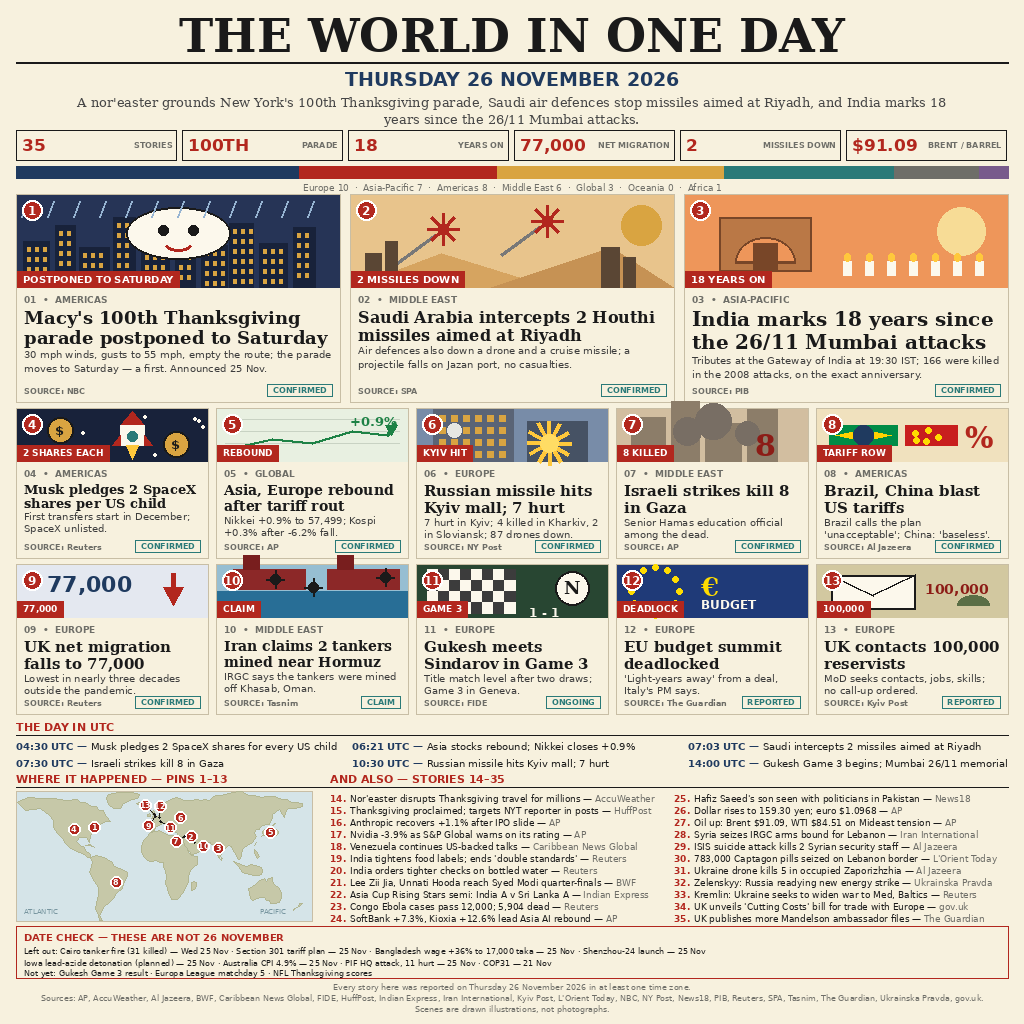
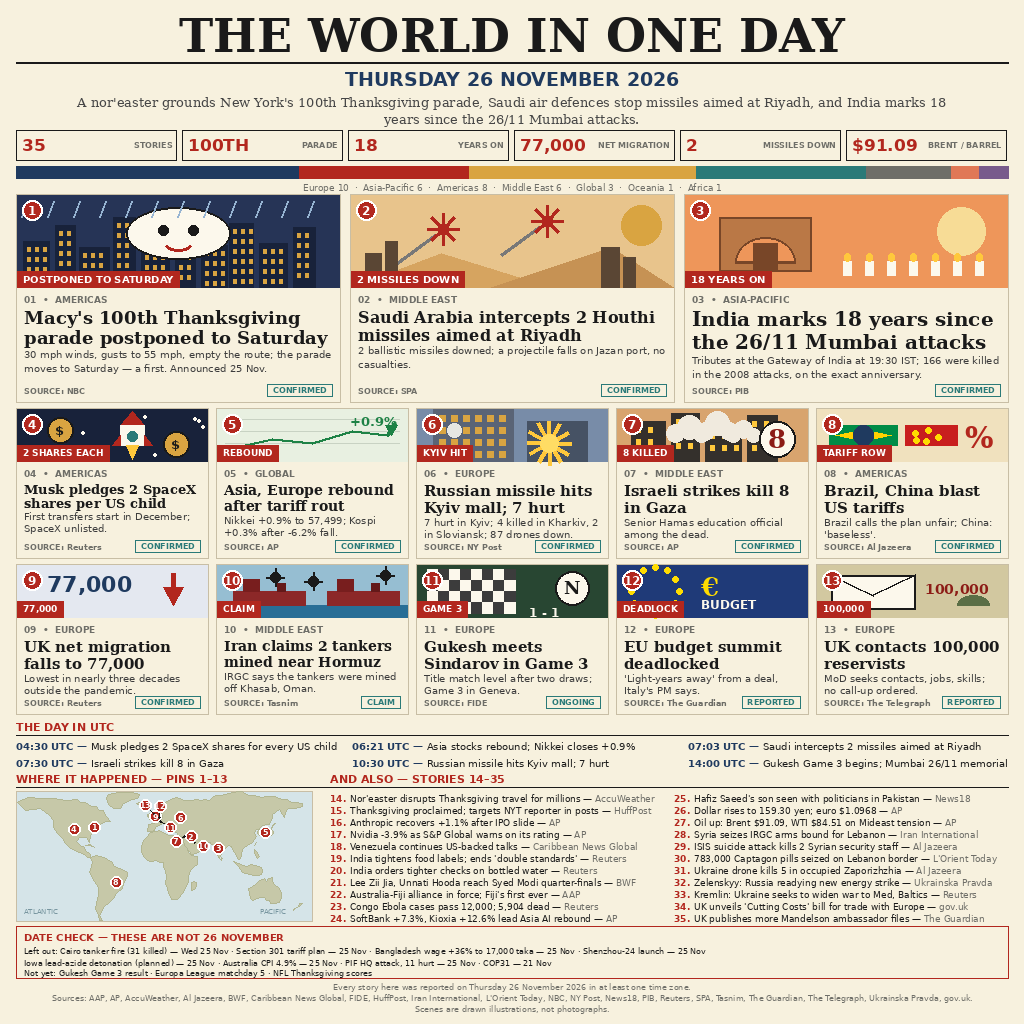
v4: fix 8 residual blind-judge defects — panel 8 deck, pins 9/5 on land, panel 7 art, #13 Telegraph, missile consistency, panel 10 tanker, Fiji alliance

diff --git a/draw.py b/draw.py
@@ -53,8 +53,8 @@ PANELS = [
     dict(n=2, region="Middle East", tag="CONFIRMED", src="SPA",
          art="missile", chip="2 MISSILES DOWN",
          head="Saudi Arabia intercepts 2 Houthi missiles aimed at Riyadh",
-         deck="Air defences also down a drone and a cruise missile; a "
-              "projectile falls on Jazan port, no casualties."),
+         deck="2 ballistic missiles downed; a projectile falls on Jazan "
+              "port, no casualties."),
     dict(n=3, region="Asia-Pacific", tag="CONFIRMED", src="PIB",
          art="mumbai", chip="18 YEARS ON",
          head="India marks 18 years since the 26/11 Mumbai attacks",
@@ -79,7 +79,7 @@ PANELS = [
     dict(n=8, region="Americas", tag="CONFIRMED", src="Al Jazeera",
          art="tariff", chip="TARIFF ROW",
          head="Brazil, China blast US tariffs",
-         deck="Brazil calls the plan 'unacceptable'; China: 'baseless'."),
+         deck="Brazil calls the plan unfair; China: 'baseless'."),
     dict(n=9, region="Europe", tag="CONFIRMED", src="Reuters",
          art="migration", chip="77,000",
          head="UK net migration falls to 77,000",
@@ -96,7 +96,7 @@ PANELS = [
          art="eu", chip="DEADLOCK",
          head="EU budget summit deadlocked",
          deck="'Light-years away' from a deal, Italy's PM says."),
-    dict(n=13, region="Europe", tag="REPORTED", src="Kyiv Post",
+    dict(n=13, region="Europe", tag="REPORTED", src="The Telegraph",
          art="reserves", chip="100,000",
          head="UK contacts 100,000 reservists",
          deck="MoD seeks contacts, jobs, skills; no call-up ordered."),
@@ -113,7 +113,7 @@ ALSO = [
     (19, "India tightens food labels; ends 'double standards'", "Reuters"),
     (20, "India orders tighter checks on bottled water", "Reuters"),
     (21, "Lee Zii Jia, Unnati Hooda reach Syed Modi quarter-finals", "BWF"),
-    (22, "Asia Cup Rising Stars semi: India A v Sri Lanka A", "Indian Express"),
+    (22, "Australia-Fiji alliance in force; Fiji's first ever", "AAP"),
     (23, "Congo Ebola cases pass 12,000; 5,904 dead", "Reuters"),
     (24, "SoftBank +7.3%, Kioxia +12.6% lead Asia AI rebound", "AP"),
     (25, "Hafiz Saeed's son seen with politicians in Pakistan", "News18"),
@@ -328,14 +328,31 @@ def art_kyiv(d, x, y, w, h):
 
 
 def art_gaza(d, x, y, w, h):
-    art_bg(d, (x, y, x + w, y + h), (210, 190, 160))
-    for bx, bw, bh in [(14, 34, 44), (54, 28, 60), (88, 36, 38), (130, 30, 52)]:
-        d.rectangle([x + bx, y + h - bh, x + bx + bw, y + h], fill=(140, 125, 105))
-    # smoke plumes
-    for sx, sy, sr in [(x + 70, y + 22, 14), (x + 96, y + 12, 18),
-                       (x + 130, y + 24, 12)]:
-        d.ellipse([sx - sr, sy - sr, sx + sr, sy + sr], fill=(120, 110, 100))
-    d.text((x + w - 52, y + h - 34), "8", font=SERIF_B(30), fill=RED_DK)
+    # v4: high contrast — dusk sky, DARK skyline with lit windows, PALE
+    # smoke, casualty count on a cream disc. v3 was grey-on-grey and
+    # unreadable at 300px. Building heights capped so no roof pokes above
+    # the art box (v3 bh=60 overflowed h=52).
+    art_bg(d, (x, y, x + w, y + h), (216, 164, 110))
+    for bx, bw, bh in [(14, 34, 40), (54, 28, 48), (88, 36, 34), (130, 30, 46)]:
+        d.rectangle([x + bx, y + h - bh, x + bx + bw, y + h], fill=(52, 48, 44))
+        for wy in range(y + h - bh + 6, y + h - 6, 12):
+            for wx in range(x + bx + 5, x + bx + bw - 5, 12):
+                d.rectangle([wx, wy, wx + 4, wy + 5], fill=(255, 200, 60))
+    # pale smoke plumes above the skyline: each a cluster of overlapping
+    # ellipses so they read as smoke, not the perfect circles of v4-r1
+    # (which looked like balloons at 300px). No outlines — the pale fill
+    # contrasts against both the dusk sky and the dark buildings.
+    for sx, sy, sr in [(x + 58, y + 24, 9), (x + 72, y + 18, 12),
+                       (x + 84, y + 25, 8), (x + 88, y + 22, 9),
+                       (x + 100, y + 14, 12), (x + 112, y + 22, 9),
+                       (x + 116, y + 26, 7), (x + 126, y + 20, 9),
+                       (x + 136, y + 26, 7)]:
+        d.ellipse([sx - sr, sy - sr, sx + sr, sy + sr], fill=(240, 234, 222))
+    # casualty count on a cream disc so the red reads at 300px
+    d.ellipse([x + w - 48, y + h - 40, x + w - 12, y + h - 4],
+              fill=(252, 248, 236), outline=(26, 26, 26), width=2)
+    d.text((x + w - 30, y + h - 22), "8", font=SERIF_B(26), fill=RED_DK,
+           anchor="mm")
 
 
 def art_tariff(d, x, y, w, h):
@@ -366,14 +383,20 @@ def art_migration(d, x, y, w, h):
 
 
 def art_hormuz(d, x, y, w, h):
+    # v4: tankers fully INSIDE the art box. v3 put the bridge at y+h-62
+    # (y-10 for h=52) so the tankers were cut off at the panel's top edge.
+    # Water band 12px; hull 14px; bridge 12px — all tops >= y+14.
     art_bg(d, (x, y, x + w, y + h), (150, 190, 210))
-    d.rectangle([x, y + h - 26, x + w, y + h], fill=(40, 110, 150))
-    # two tankers
+    d.rectangle([x, y + h - 12, x + w, y + h], fill=(40, 110, 150))
+    # two tankers: hull + bridge + funnel, all inside the box
     for tx in (x + 16, x + 110):
-        d.rectangle([tx, y + h - 48, tx + 72, y + h - 28], fill=(140, 40, 40))
-        d.rectangle([tx + 10, y + h - 62, tx + 26, y + h - 48], fill=(120, 30, 30))
-    # mines (spiked dots) in open water
-    for mx, my in [(x + 58, y + 14), (x + 168, y + 12), (x + 96, y + 22)]:
+        d.rectangle([tx, y + h - 26, tx + 72, y + h - 12], fill=(140, 40, 40))
+        d.rectangle([tx + 10, y + h - 38, tx + 26, y + h - 26],
+                    fill=(120, 30, 30))
+        d.rectangle([tx + 44, y + h - 34, tx + 52, y + h - 26],
+                    fill=(100, 25, 25))
+    # mines (spiked dots) in open water, clear of both bridges
+    for mx, my in [(x + 58, y + 12), (x + 168, y + 10), (x + 96, y + 16)]:
         d.ellipse([mx - 5, my - 5, mx + 5, my + 5], fill=INK)
         d.line([mx - 9, my, mx + 9, my], fill=INK, width=2)
         d.line([mx, my - 9, mx, my + 9], fill=INK, width=2)
@@ -511,9 +534,9 @@ CONTINENTS = [N_AMERICA, GREENLAND, S_AMERICA, AFRICA, EURASIA, UK, JAPAN,
 # from true point to the pin disc when offset != (0, 0).
 PINS = {1: (-74.0, 40.7, 0, 0), 2: (46.7, 24.7, -3, -6),
         3: (72.8, 19.1, 3, 0), 4: (-99.0, 38.5, 0, 0),
-        5: (139.7, 35.7, 0, 0), 6: (30.5, 50.45, 0, 0),
+        5: (139.7, 35.7, -5, 0), 6: (30.5, 50.45, 0, 0),
         7: (34.45, 31.5, -8, 5), 8: (-47.9, -15.8, 0, 0),
-        9: (-0.1, 51.5, -7, 9), 10: (56.2, 26.2, 2, 5),
+        9: (-0.1, 51.5, 0, 0), 10: (56.2, 26.2, 2, 5),
         11: (6.1, 46.2, 10, 6), 12: (4.35, 50.85, 1, -11),
         13: (-1.55, 53.8, -9, -9)}
 
@@ -583,7 +606,7 @@ def render():
     # ALSO ON regions (parallel list, same order as ALSO)
     also_regions = ["Americas", "Americas", "Americas", "Americas", "Americas",
                     "Asia-Pacific", "Asia-Pacific", "Asia-Pacific",
-                    "Asia-Pacific", "Africa", "Asia-Pacific",
+                    "Oceania", "Africa", "Asia-Pacific",
                     "Asia-Pacific", "Global", "Global", "Middle East",
                     "Middle East", "Middle East", "Europe", "Europe",
                     "Europe", "Europe", "Europe"]
@@ -675,8 +698,15 @@ def render():
                   outline=LAND_DK)
     # Japan is a thin sliver at this scale: fatten its blob slightly so the
     # green island visibly protrudes beyond pin 5 (B14 small-island rule).
+    # v4: blob AND pin both shifted 5px west — v3 pin sat on the island's
+    # eastern edge, disc mostly over the Pacific.
     jx, jy = px(139.7, 35.7)
-    d.ellipse([jx - 8, jy - 4, jx + 8, jy + 4], fill=LAND, outline=LAND_DK)
+    d.ellipse([jx - 13, jy - 4, jx + 3, jy + 4], fill=LAND, outline=LAND_DK)
+    # UK is a sliver too: fatten its blob the same way so pin 9 (now at
+    # offset 0,0, true London) sits on visible land instead of the
+    # Atlantic west of Britain, where v3's (-7,+9) offset put it.
+    ux, uy = px(-0.1, 51.5)
+    d.ellipse([ux - 7, uy - 5, ux + 7, uy + 5], fill=LAND, outline=LAND_DK)
     d.text((mx + 8, my + mh - 14), "ATLANTIC", font=SANS(7), fill=(120, 150, 160))
     d.text((mx + mw - 52, my + mh - 14), "PACIFIC", font=SANS(7),
            fill=(120, 150, 160))
